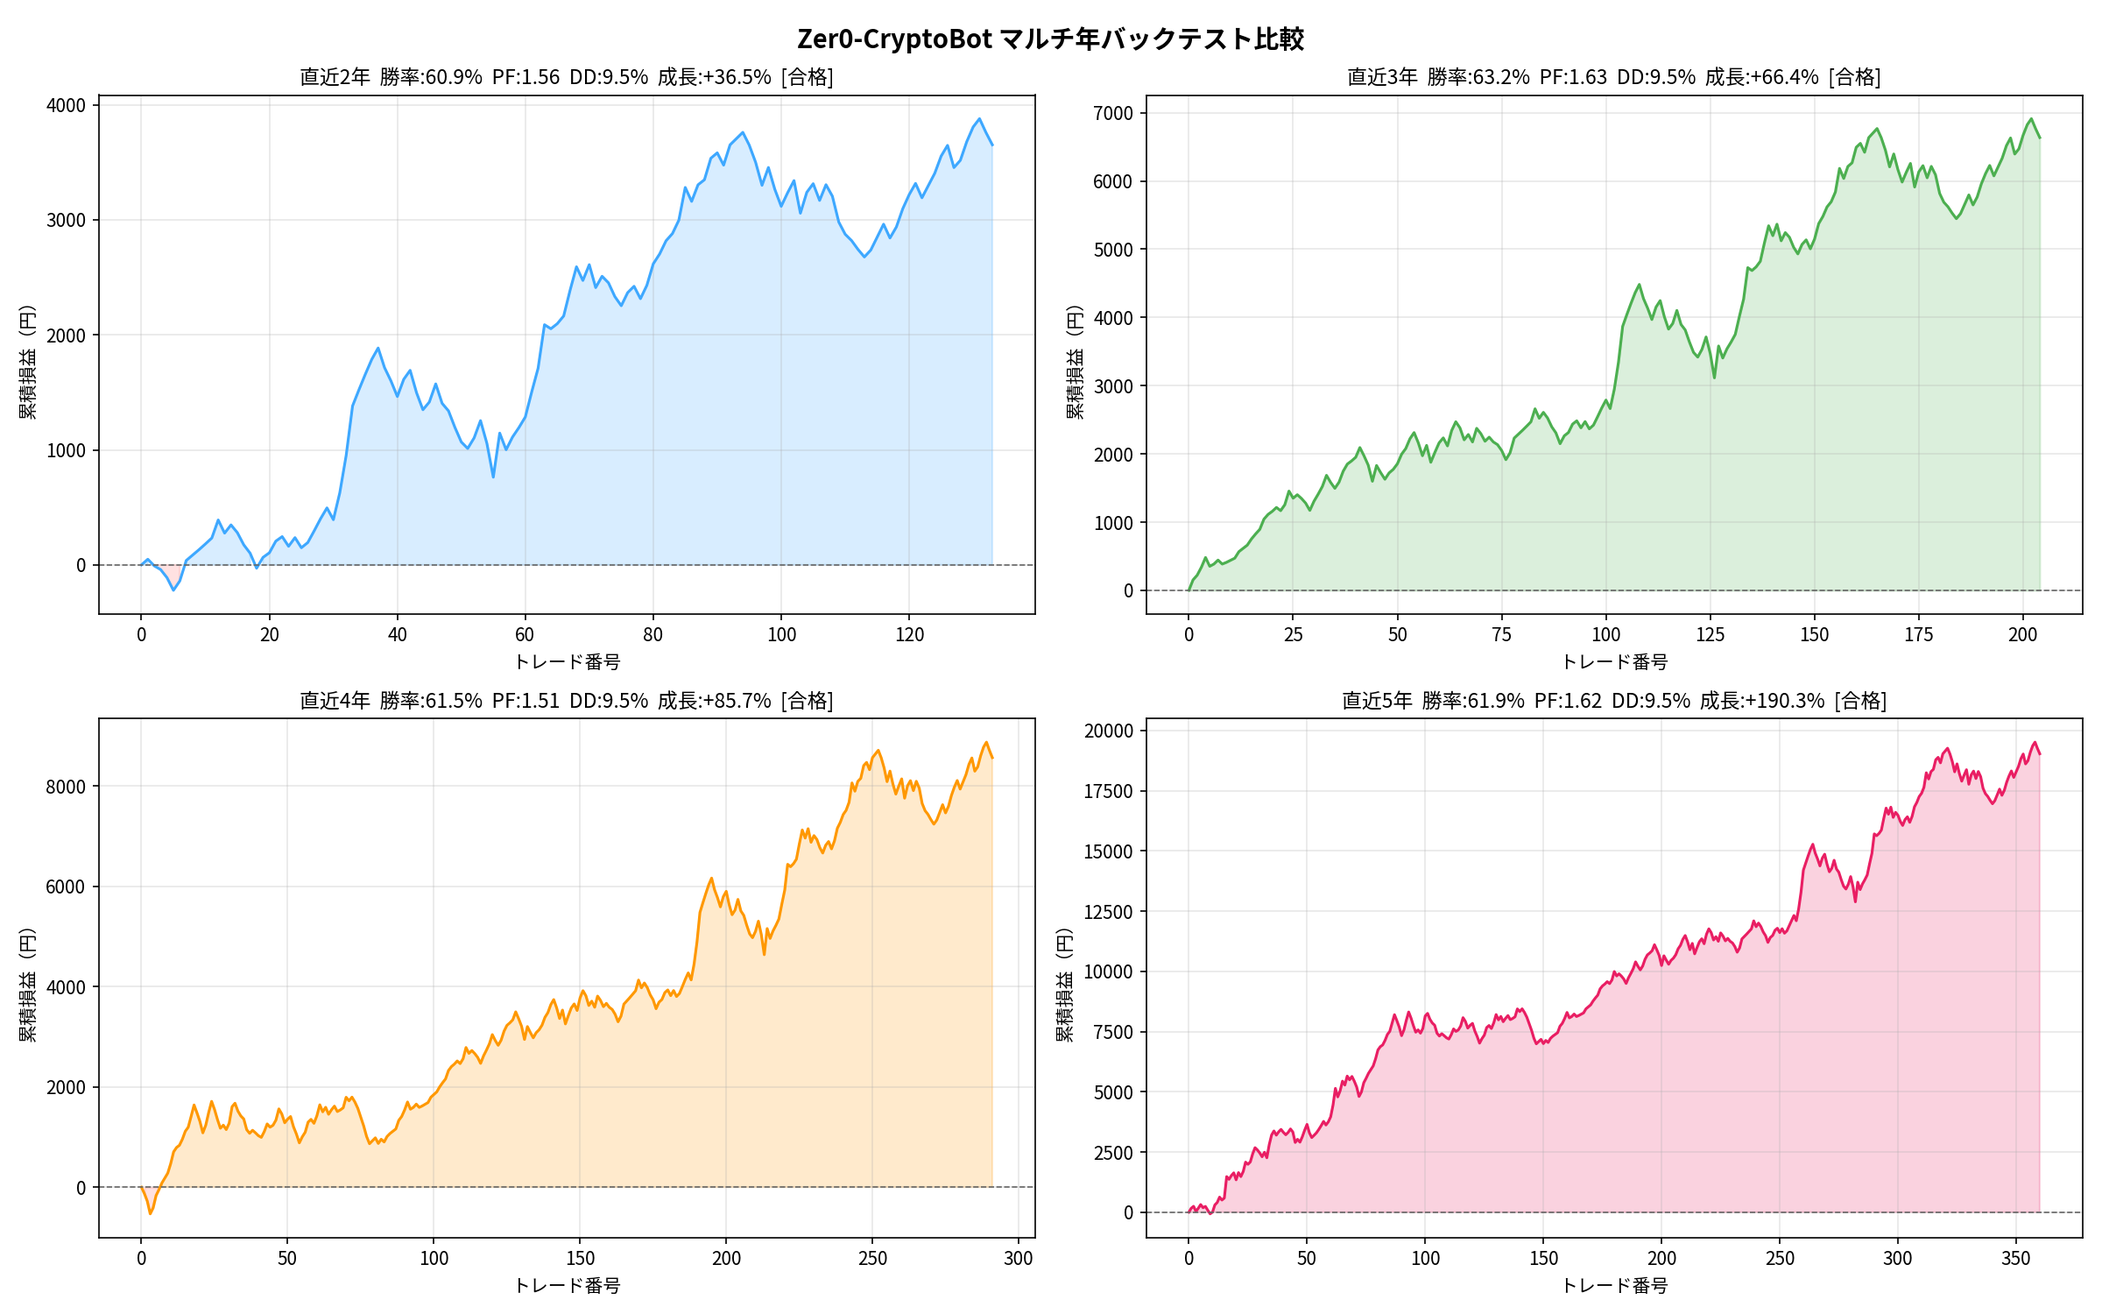
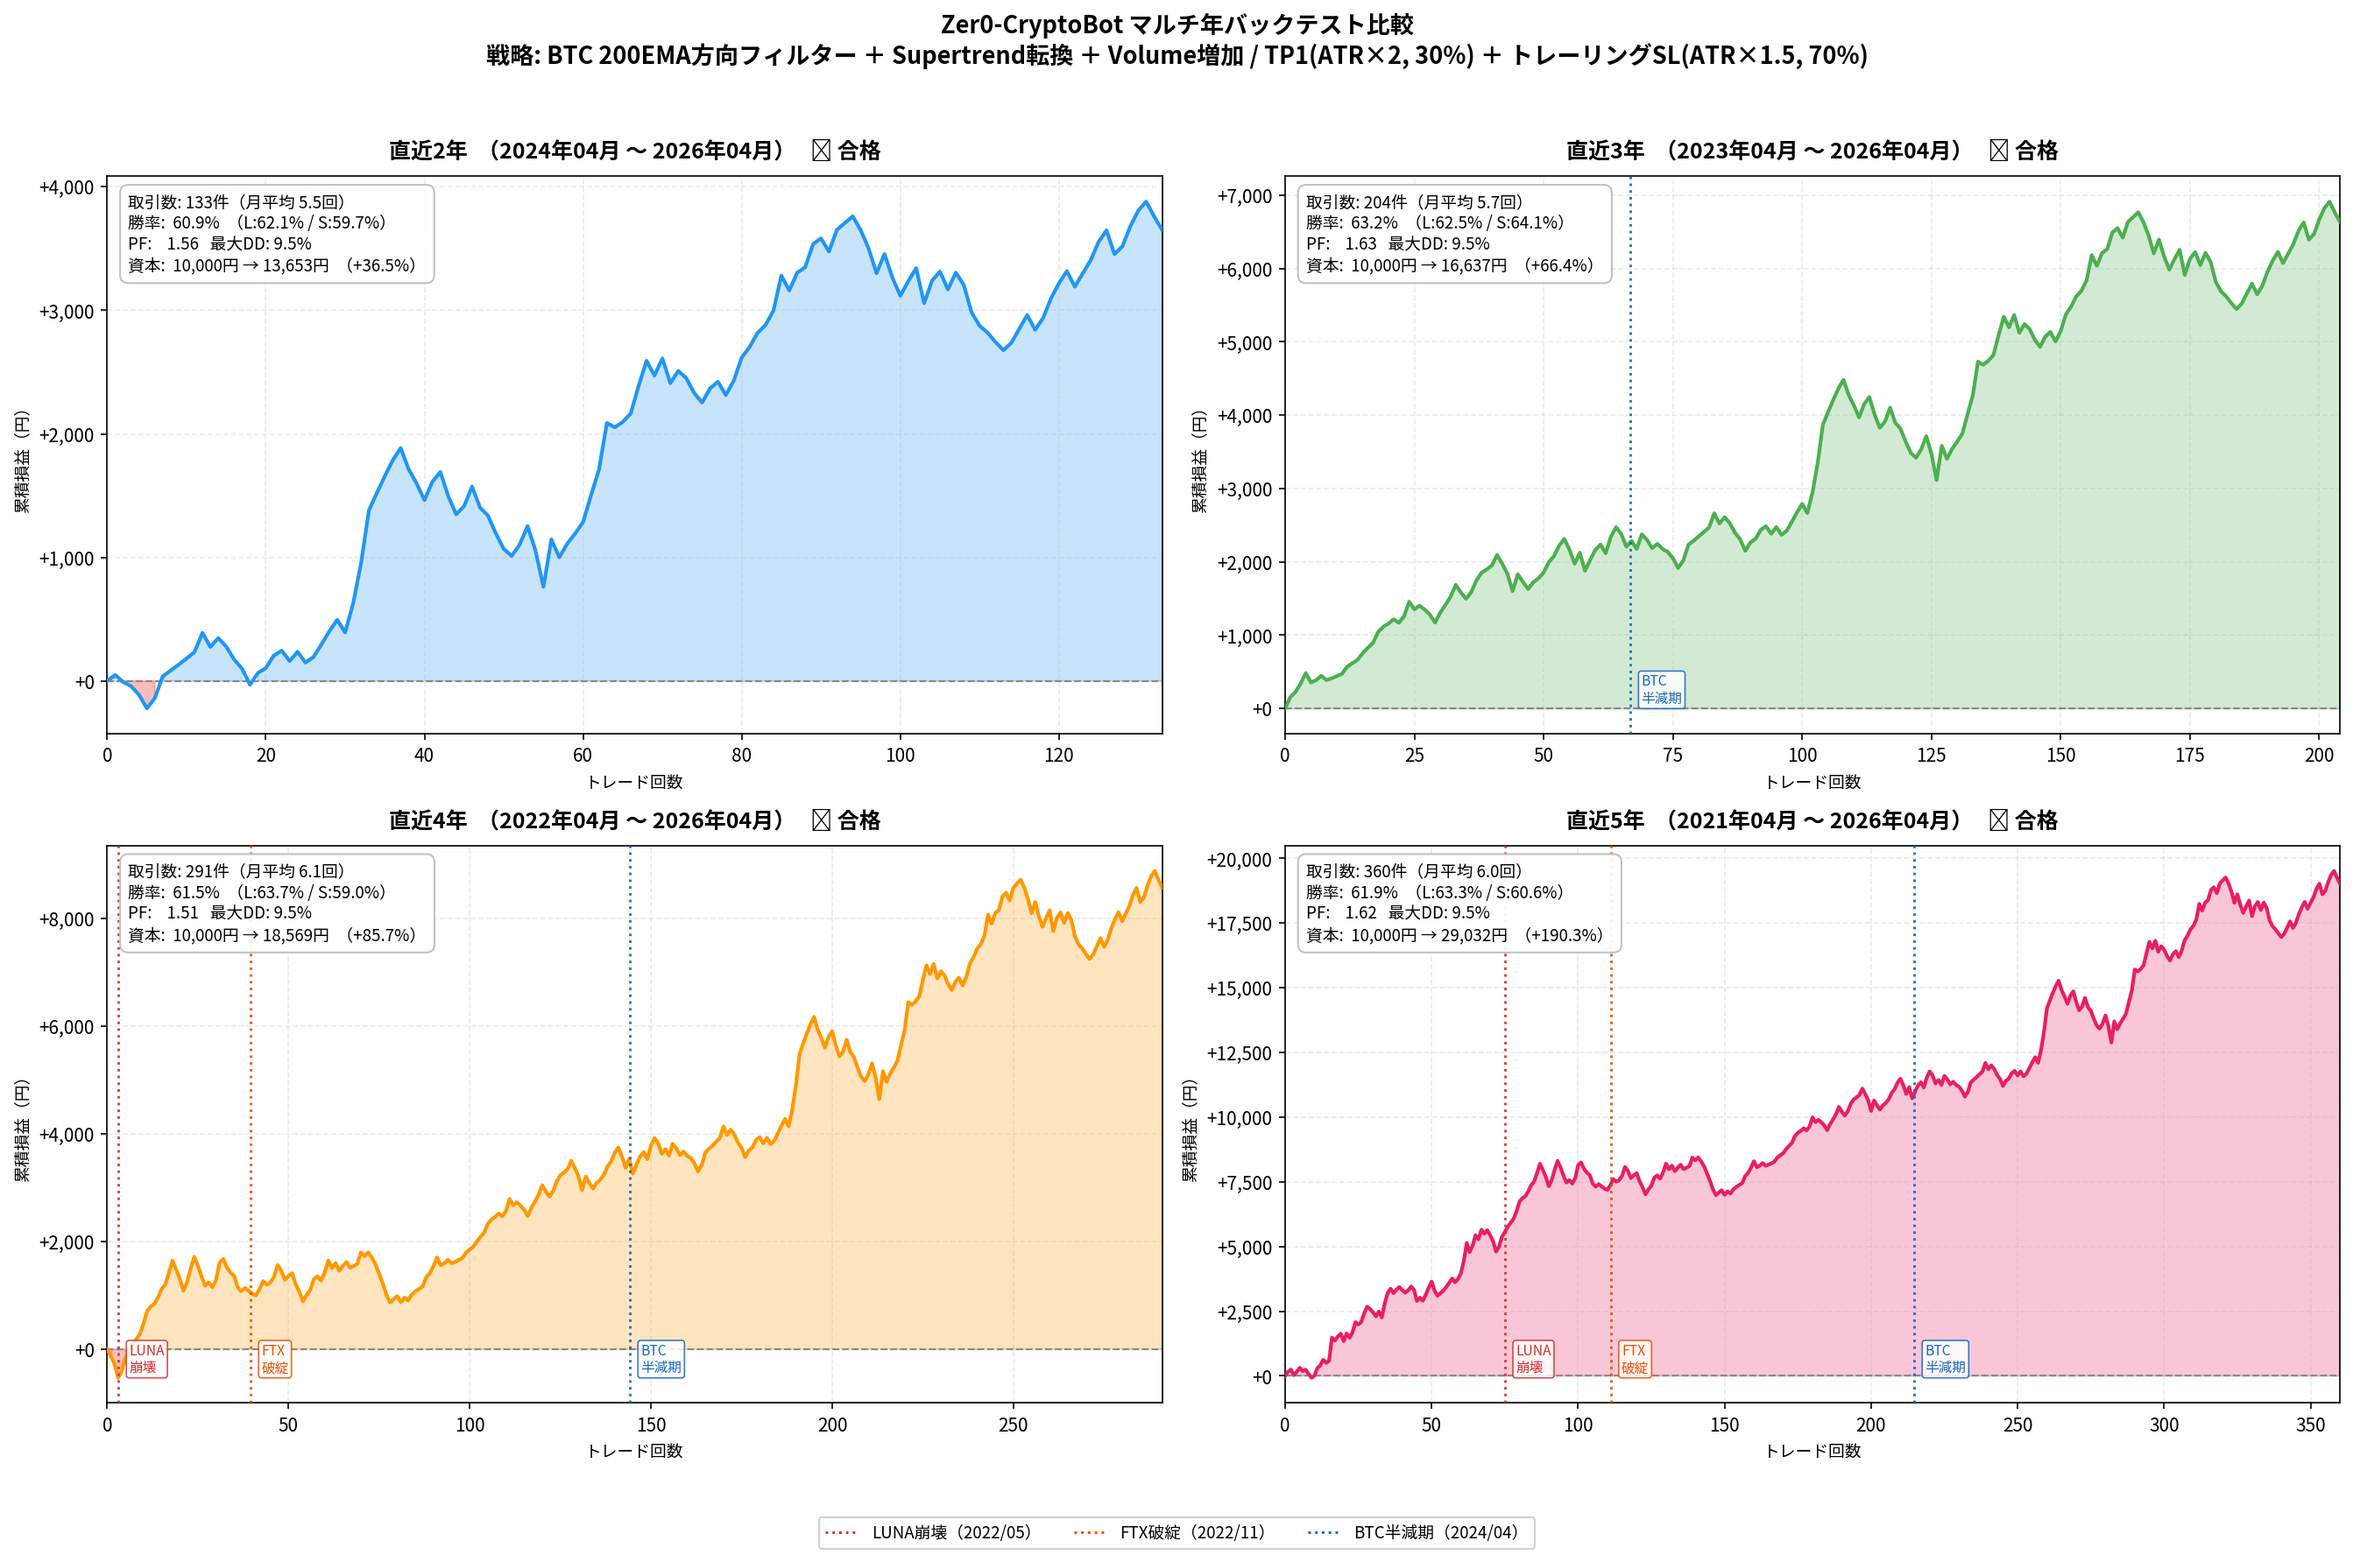
auto-sync: 2026-04-25 15:52

diff --git a/006_zer0-cryptobot/backtest/backtest.py b/006_zer0-cryptobot/backtest/backtest.py
@@ -515,7 +515,7 @@ def save_chart(equity: list, timestamps: list, path: str, final_pool: float):
 
 # ── シングル年バックテスト ─────────────────────────────
 def run_for_years(years: int) -> tuple:
-    """指定年数でデータ取得→バックテスト実行。(stats, equity, trades, label) を返す"""
+    """指定年数でデータ取得→バックテスト実行。(stats, equity, trades, final_pool, label, start, end) を返す"""
     candles = years * 365 * 6
     print(f"\n{'='*55}")
     print(f"  直近 {years} 年  ({candles} 本)")
@@ -536,7 +536,7 @@ def run_for_years(years: int) -> tuple:
 
     result = run_backtest(btc_df, coin_dfs)
     stats  = calc_stats(result["trades"], result["equity"])
-    return stats, result["equity"], result["trades"], result["final_pool"], f"{years}年"
+    return stats, result["equity"], result["trades"], result["final_pool"], f"{years}年", start, end
 
 
 # ── メイン ────────────────────────────────────────────
@@ -598,6 +598,7 @@ def main():
 def _run_multi():
     """2/3/4/5年を一括実行して比較表と比較チャートを出力する"""
     from matplotlib import font_manager as fm
+    from datetime import datetime, timezone
     fm.fontManager.addfont("/usr/share/fonts/opentype/noto/NotoSansCJK-Regular.ttc")
     import matplotlib
     matplotlib.rcParams["font.family"] = "Noto Sans CJK JP"
@@ -606,7 +607,7 @@ def _run_multi():
     all_results = []
 
     for yr in year_list:
-        stats, equity, trades, final_pool, label = run_for_years(yr)
+        stats, equity, trades, final_pool, label, start, end = run_for_years(yr)
         print_stats(stats)
         growth = (final_pool / INITIAL_CAPITAL - 1) * 100
         monthly = len(trades) / (yr * 12) if yr > 0 else 0
@@ -623,6 +624,8 @@ def _run_multi():
             "equity":     equity,
             "long_wr":    stats.get("long_wr", 0),
             "short_wr":   stats.get("short_wr", 0),
+            "start":      start,
+            "end":        end,
         })
 
     # ── 比較サマリー表 ──────────────────────────────────
@@ -642,34 +645,107 @@ def _run_multi():
     for r in all_results:
         print(f"    {r['label']}: L={r['long_wr']:.1f}%  S={r['short_wr']:.1f}%")
 
-    # ── 比較チャート ────────────────────────────────────
-    fig, axes = plt.subplots(2, 2, figsize=(16, 10))
+    # ── 比較チャート（刷新版）────────────────────────────
+    # 主要イベントの日付（UTC）
+    EVENTS = [
+        (datetime(2022,  5, 12, tzinfo=timezone.utc), "LUNA\n崩壊",   "#D32F2F"),
+        (datetime(2022, 11, 11, tzinfo=timezone.utc), "FTX\n破綻",    "#E65100"),
+        (datetime(2024,  4, 19, tzinfo=timezone.utc), "BTC\n半減期",  "#1565C0"),
+    ]
+
+    colors = ["#2196F3", "#4CAF50", "#FF9800", "#E91E63"]
+    fig, axes = plt.subplots(2, 2, figsize=(18, 12))
     axes = axes.flatten()
-    colors = ["#3EA8FF", "#4CAF50", "#FF9800", "#E91E63"]
 
     for i, r in enumerate(all_results):
-        ax = axes[i]
-        eq = r["equity"]
-        x  = list(range(len(eq)))
-        ok = (r["win_rate"] >= 50 and r["pf"] >= 1.5 and r["max_dd"] <= 30)
-        ax.plot(x, eq, linewidth=1.5, color=colors[i])
-        ax.axhline(0, color="#666", linewidth=0.8, linestyle="--")
-        ax.fill_between(x, eq, 0, where=[v >= 0 for v in eq], alpha=0.2, color=colors[i])
-        ax.fill_between(x, eq, 0, where=[v < 0 for v in eq], alpha=0.2, color="#FF6B6B")
-        verdict = "合格" if ok else "不合格"
-        ax.set_title(
-            f"直近{r['years']}年  勝率:{r['win_rate']:.1f}%  PF:{r['pf']:.2f}  "
-            f"DD:{r['max_dd']:.1f}%  成長:{r['growth']:+.1f}%  [{verdict}]",
-            fontsize=11,
-        )
-        ax.set_xlabel("トレード番号")
-        ax.set_ylabel("累積損益（円）")
-        ax.grid(True, alpha=0.3)
+        ax    = axes[i]
+        eq    = r["equity"]
+        n     = len(eq)
+        x     = list(range(n))
+        ok    = (r["win_rate"] >= 50 and r["pf"] >= 1.5 and r["max_dd"] <= 30)
+        color = colors[i]
+        start_dt = pd.Timestamp(r["start"]).to_pydatetime().replace(tzinfo=timezone.utc)
+        end_dt   = pd.Timestamp(r["end"]).to_pydatetime().replace(tzinfo=timezone.utc)
+        total_sec = (end_dt - start_dt).total_seconds()
 
-    fig.suptitle("Zer0-CryptoBot マルチ年バックテスト比較", fontsize=14, fontweight="bold")
-    plt.tight_layout()
+        # ── ライン＆塗りつぶし ──
+        ax.plot(x, eq, linewidth=2.0, color=color, zorder=3)
+        ax.axhline(0, color="#888", linewidth=1.0, linestyle="--", zorder=2)
+        ax.fill_between(x, eq, 0, where=[v >= 0 for v in eq],
+                        alpha=0.25, color=color, zorder=1)
+        ax.fill_between(x, eq, 0, where=[v < 0 for v in eq],
+                        alpha=0.35, color="#F44336", zorder=1)
+
+        # ── 主要イベントの縦線 ──
+        for ev_dt, ev_label, ev_color in EVENTS:
+            if not (start_dt <= ev_dt <= end_dt):
+                continue
+            frac   = (ev_dt - start_dt).total_seconds() / total_sec
+            ev_x   = frac * (n - 1)
+            ax.axvline(ev_x, color=ev_color, linewidth=1.4,
+                       linestyle=":", alpha=0.9, zorder=4)
+            # axes座標系で位置を指定（データ範囲に依存しない）
+            ax.text(frac + 0.01, 0.05, ev_label,
+                    color=ev_color, fontsize=7.5,
+                    va="bottom", ha="left", zorder=5,
+                    transform=ax.transAxes,
+                    bbox=dict(boxstyle="round,pad=0.2", fc="white", ec=ev_color,
+                              alpha=0.85, linewidth=0.8))
+
+        # ── タイトル（実際の年月入り）──
+        s_str = start_dt.strftime("%Y年%m月")
+        e_str = end_dt.strftime("%Y年%m月")
+        verdict_str = "✅ 合格" if ok else "❌ 不合格"
+        ax.set_title(
+            f"直近{r['years']}年  （{s_str} 〜 {e_str}）   {verdict_str}",
+            fontsize=12, fontweight="bold", pad=10,
+        )
+
+        # ── 統計テキストボックス（左上）──
+        stats_text = (
+            f"取引数: {r['trades']}件（月平均 {r['monthly']:.1f}回）\n"
+            f"勝率:  {r['win_rate']:.1f}%"
+            f"  （L:{r['long_wr']:.1f}% / S:{r['short_wr']:.1f}%）\n"
+            f"PF:    {r['pf']:.2f}   最大DD: {r['max_dd']:.1f}%\n"
+            f"資本:  {INITIAL_CAPITAL:,.0f}円 → {r['final']:,.0f}円"
+            f"  （{r['growth']:+.1f}%）"
+        )
+        ax.text(0.02, 0.97, stats_text,
+                transform=ax.transAxes,
+                fontsize=9, va="top", ha="left",
+                bbox=dict(boxstyle="round,pad=0.5", fc="white",
+                          ec="#BDBDBD", alpha=0.92),
+                zorder=6)
+
+        # ── 軸ラベル ──
+        ax.set_xlabel("トレード回数", fontsize=9)
+        ax.set_ylabel("累積損益（円）", fontsize=9)
+        ax.yaxis.set_major_formatter(
+            matplotlib.ticker.FuncFormatter(lambda v, _: f"{v:+,.0f}")
+        )
+        ax.grid(True, alpha=0.25, linestyle="--")
+        ax.set_xlim(0, n - 1)
+
+    # ── 凡例（イベント）──
+    from matplotlib.lines import Line2D
+    legend_elements = [
+        Line2D([0], [0], color="#D32F2F", lw=1.4, ls=":", label="LUNA崩壊（2022/05）"),
+        Line2D([0], [0], color="#E65100", lw=1.4, ls=":", label="FTX破綻（2022/11）"),
+        Line2D([0], [0], color="#1565C0", lw=1.4, ls=":", label="BTC半減期（2024/04）"),
+    ]
+    fig.legend(handles=legend_elements, loc="lower center",
+               ncol=3, fontsize=9, framealpha=0.9,
+               bbox_to_anchor=(0.5, 0.01))
+
+    fig.suptitle(
+        "Zer0-CryptoBot マルチ年バックテスト比較\n"
+        "戦略: BTC 200EMA方向フィルター ＋ Supertrend転換 ＋ Volume増加 / "
+        "TP1(ATR×2, 30%) ＋ トレーリングSL(ATR×1.5, 70%)",
+        fontsize=13, fontweight="bold", y=0.99,
+    )
+    plt.tight_layout(rect=[0, 0.06, 1, 0.97])
     chart_path = "/root/Zer0/006_Zer0_CryptoBot/backtest/result_multi.png"
-    plt.savefig(chart_path, dpi=150)
+    plt.savefig(chart_path, dpi=150, bbox_inches="tight")
     print(f"\n  比較チャート保存: {chart_path}")
 
 
